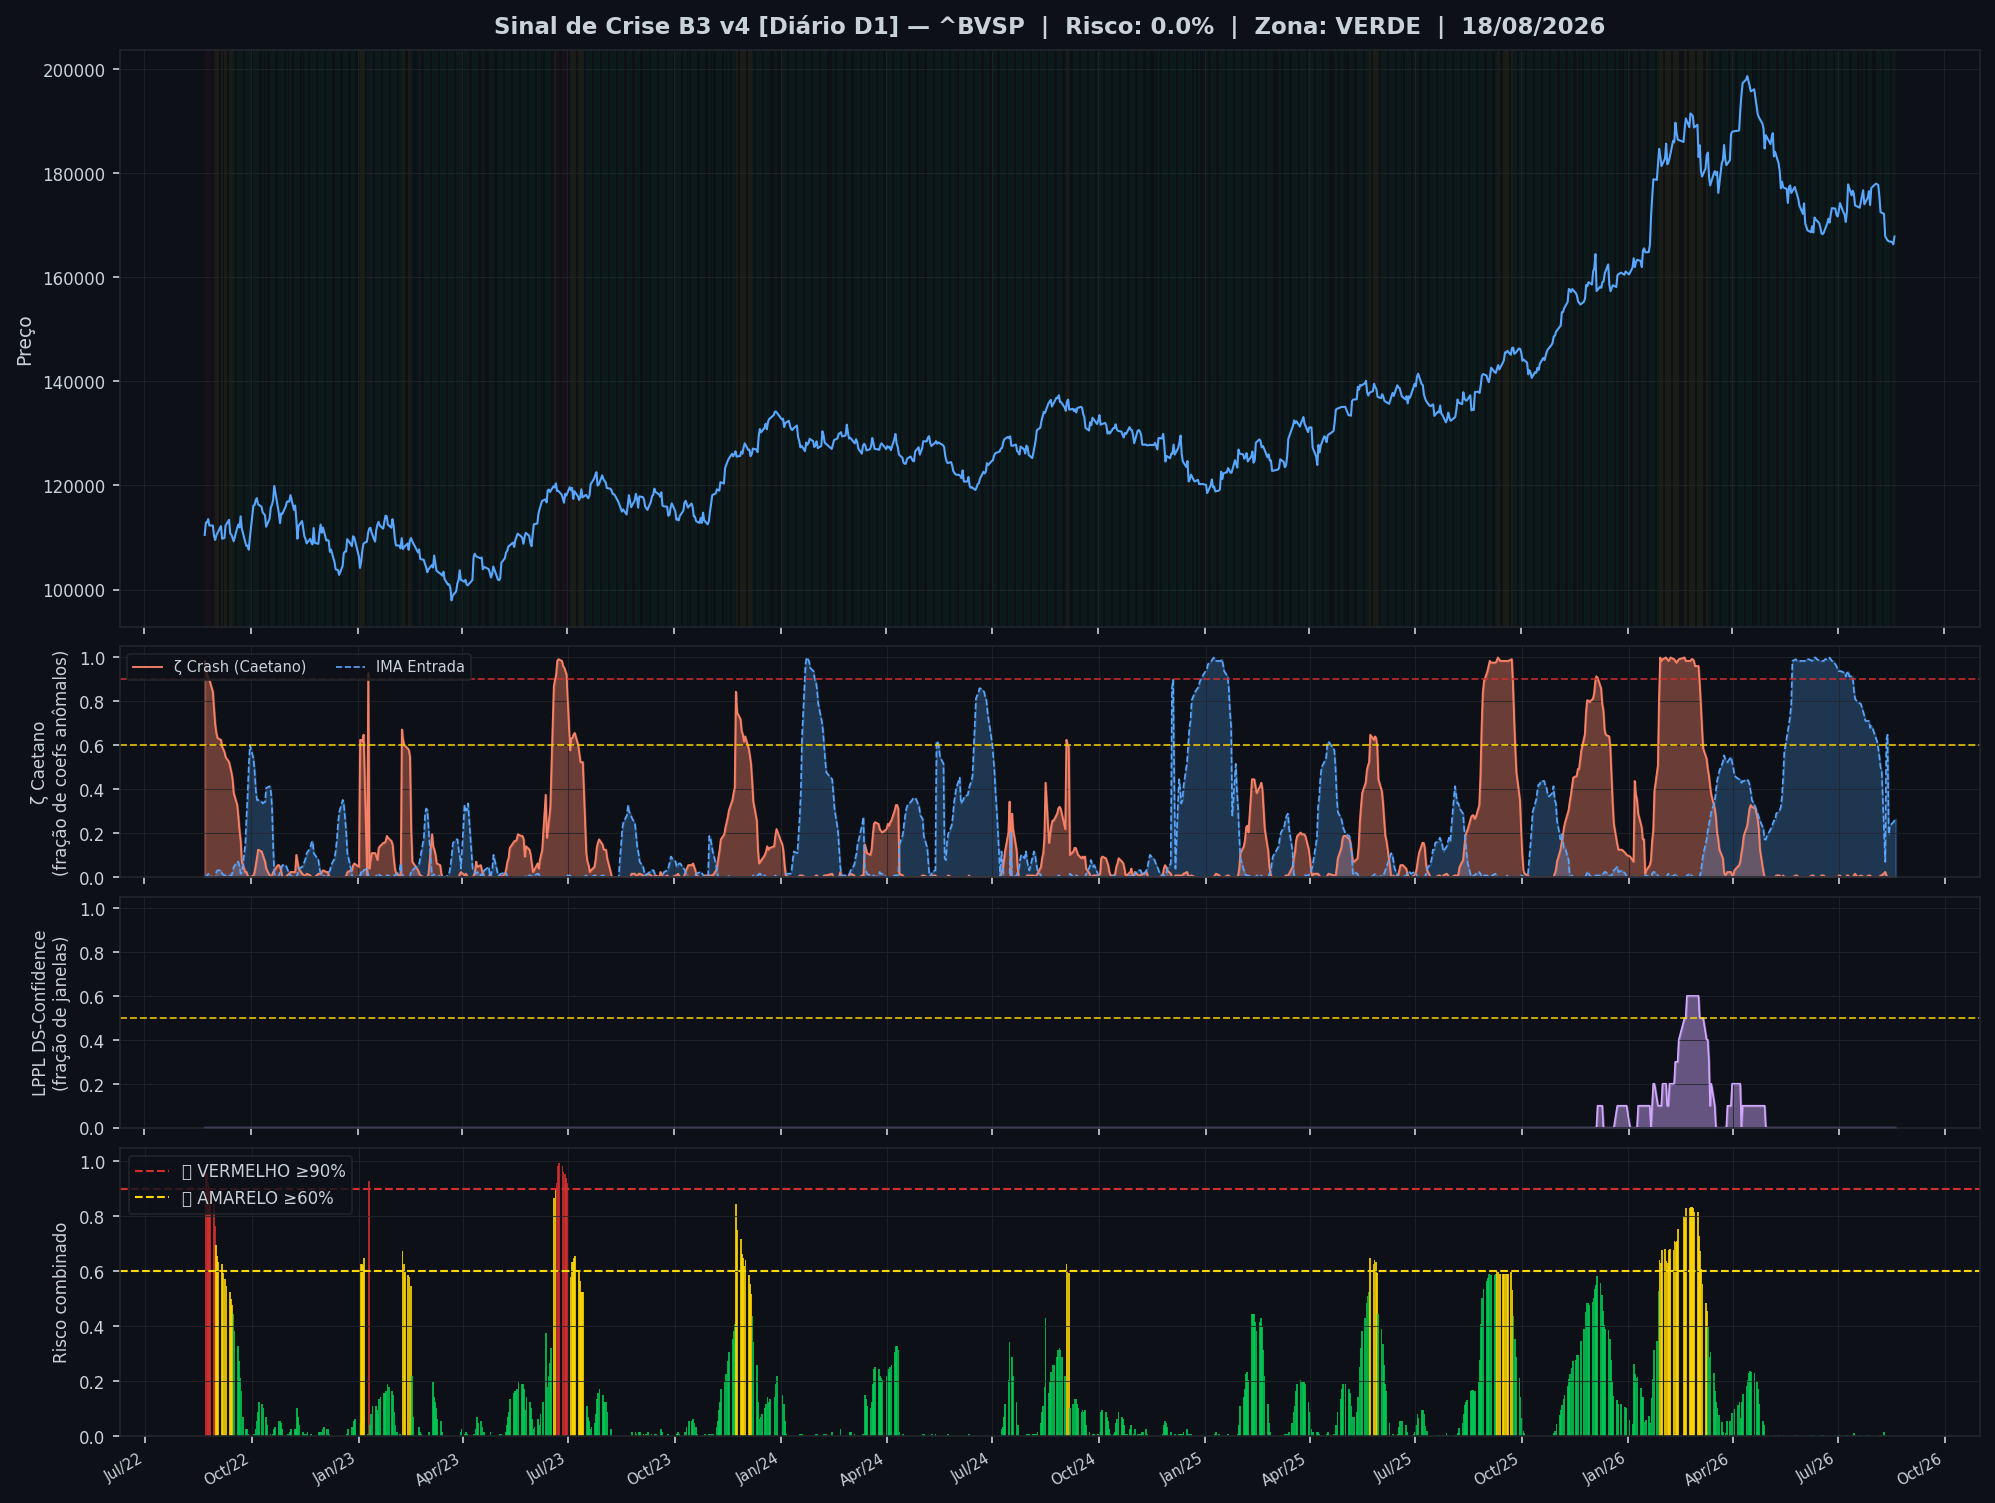
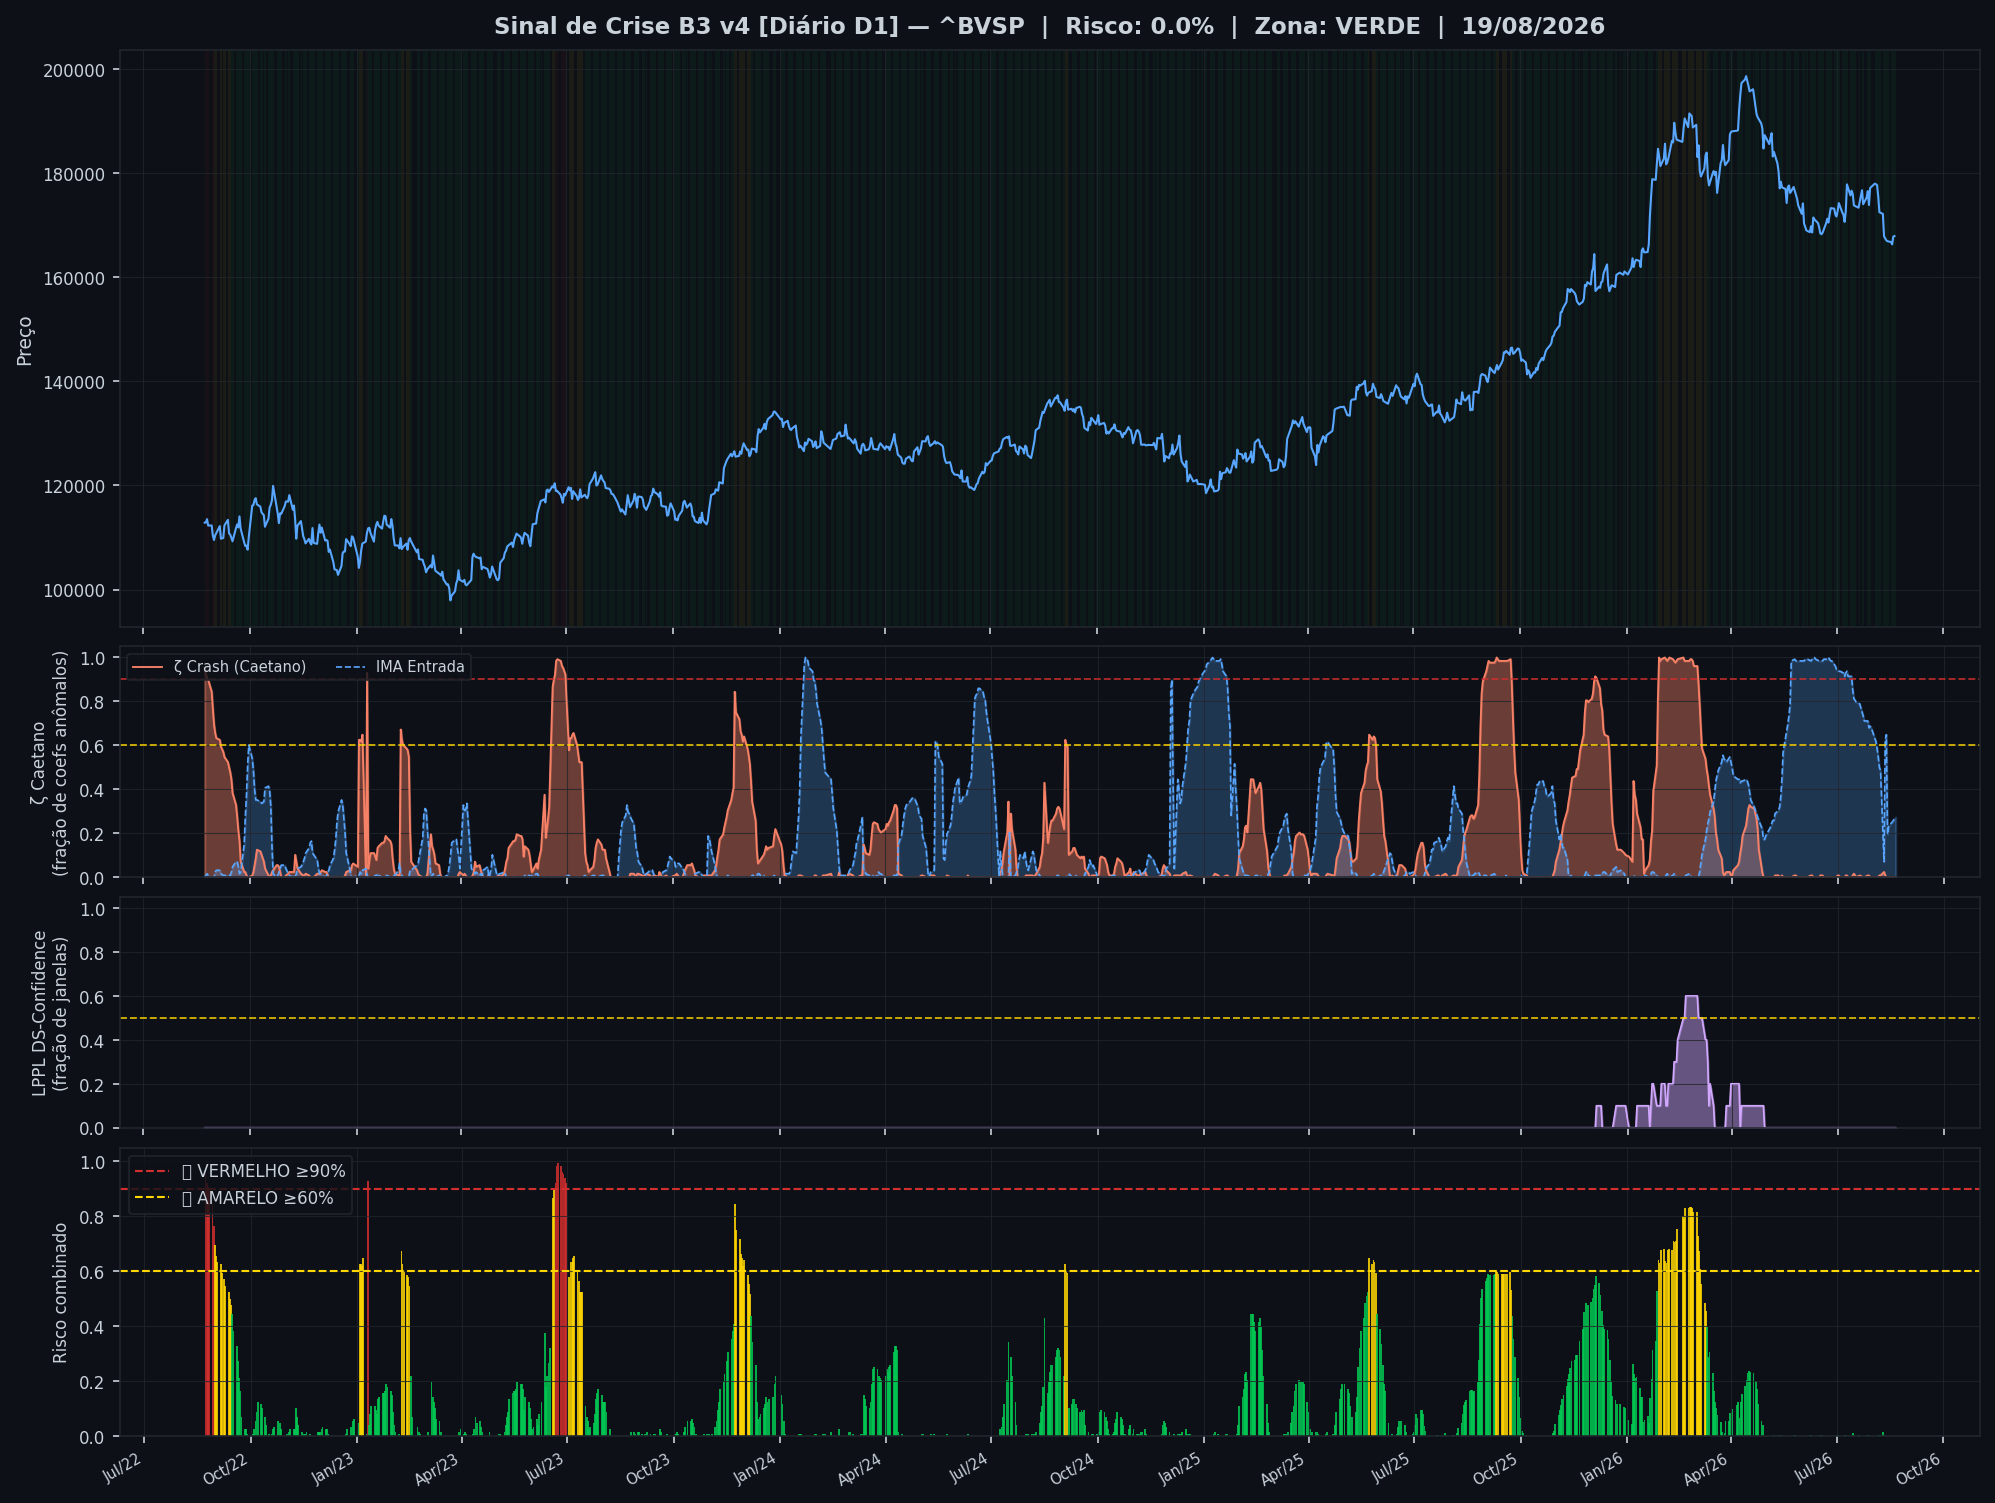
🤖 Auto: Sinal 20/08/2026 19:00

diff --git a/content/diario/2026-08-19.md b/content/diario/2026-08-19.md
@@ -1,0 +1,104 @@
+---
+title: "🟢 Diário 19/08/2026 — VERDE"
+date: 2026-08-20
+tags: [diario]
+---
+
+> [!success] 🟢 **VERDE** — Risco 0% · ＝ +0 p.p. vs leitura anterior
+> `░░░░░░░░░░░░░░░░░░░░`
+> Mercado sem sinais relevantes de estresse.
+
+
+| Indicador | Valor |
+|---|---|
+| 🔴 ζ Crash — severidade da queda em curso | **0%** |
+| 🔵 ζ Entrada — estrutura de fundo | 27% |
+| 🫧 LPPL DS-Confidence | 0% |
+| 📊 Ibovespa | 167.927 pts |
+
+![Gráfico do sinal](../graficos/sinal_diario.png)
+
+## Últimos 30 pregões
+
+| Data | Zona | Risco | IMA Crash | Entrada | LPPL |
+|---|---|---|---|---|---|
+| 2026-08-19 21:00 | 🟢 VERDE | **0%** | 0% | 27% | 0% |
+| 2026-08-18 21:00 | 🟢 VERDE | **0%** | 0% | 27% | 0% |
+| 2026-08-17 21:00 | 🟢 VERDE | **0%** | 0% | 26% | 0% |
+| 2026-08-16 21:00 | 🟢 VERDE | **0%** | 0% | 25% | 0% |
+| 2026-08-13 21:00 | 🟢 VERDE | **0%** | 0% | 23% | 0% |
+| 2026-08-12 21:00 | 🟢 VERDE | **0%** | 0% | 20% | 0% |
+| 2026-08-11 21:00 | 🟢 VERDE | **0%** | 0% | 65% | 0% |
+| 2026-08-10 21:00 | 🟢 VERDE | **0%** | 1% | 62% | 0% |
+| 2026-08-09 21:00 | 🟢 VERDE | **1%** | 2% | 7% | 0% |
+| 2026-08-06 21:00 | 🟢 VERDE | **0%** | 1% | 48% | 0% |
+| 2026-08-05 21:00 | 🟢 VERDE | **0%** | 1% | 50% | 0% |
+| 2026-08-04 21:00 | 🟢 VERDE | **0%** | 0% | 55% | 0% |
+| 2026-08-03 21:00 | 🟢 VERDE | **0%** | 0% | 59% | 0% |
+| 2026-08-02 21:00 | 🟢 VERDE | **0%** | 0% | 62% | 0% |
+| 2026-07-29 21:00 | 🟢 VERDE | **0%** | 0% | 68% | 0% |
+| 2026-07-28 21:00 | 🟢 VERDE | **0%** | 0% | 69% | 0% |
+| 2026-07-27 21:00 | 🟢 VERDE | **0%** | 1% | 68% | 0% |
+| 2026-07-26 21:00 | 🟢 VERDE | **0%** | 1% | 71% | 0% |
+| 2026-07-23 21:00 | 🟢 VERDE | **0%** | 0% | 71% | 0% |
+| 2026-07-22 21:00 | 🟢 VERDE | **0%** | 0% | 73% | 0% |
+| 2026-07-19 21:00 | 🟢 VERDE | **0%** | 1% | 79% | 0% |
+| 2026-07-16 21:00 | 🟢 VERDE | **0%** | 0% | 80% | 0% |
+| 2026-07-15 21:00 | 🟢 VERDE | **0%** | 1% | 80% | 0% |
+| 2026-07-14 21:00 | 🟢 VERDE | **1%** | 2% | 81% | 0% |
+| 2026-07-13 21:00 | 🟢 VERDE | **0%** | 1% | 85% | 0% |
+| 2026-07-12 21:00 | 🟢 VERDE | **0%** | 0% | 91% | 0% |
+| 2026-07-09 21:00 | 🟢 VERDE | **0%** | 0% | 91% | 0% |
+| 2026-07-08 21:00 | 🟢 VERDE | **0%** | 1% | 94% | 0% |
+| 2026-07-07 21:00 | 🟢 VERDE | **0%** | 1% | 93% | 0% |
+| 2026-07-06 21:00 | 🟢 VERDE | **0%** | 0% | 91% | 0% |
+
+## Monitor Multi-Ativo
+
+**0% dos ativos em tensão** (0🔴 0🟡) — quanto mais ativos disparam juntos, mais confiável o sinal.
+
+| Zona | Ativo | Setor | IMA Crash | IMA Entrada |
+|---|---|---|---|---|
+| 🟢 | **VALE** | Mineração | 25.8% | 0.0% |
+| 🟢 | **ITAUUNIBANCO** | Financeiro | 25.8% | 0.0% |
+| 🟢 | **PETROBRAS** | Petróleo | 25.8% | 0.0% |
+| 🟢 | **AXIA ENERGIA** | Energia | 25.8% | 0.0% |
+| 🟢 | **PETROBRAS** | Petróleo | 25.8% | 0.0% |
+| 🟢 | **BRADESCO** | Financeiro | 25.8% | 0.0% |
+| 🟢 | **ITAUSA** | Financeiro | 25.8% | 0.0% |
+| 🟢 | **WEG** | Industrial | 25.8% | 0.0% |
+| 🟢 | **B3** | Financeiro | 25.8% | 0.0% |
+| 🟢 | **EMBRAER** | Outros | 25.8% | 0.0% |
+| 🟢 | **SABESP** | Saneamento | 25.8% | 0.0% |
+| 🟢 | **AMBEV S/A** | Consumo | 25.8% | 0.0% |
+| 🟢 | **BTGP BANCO** | Financeiro | 25.8% | 0.0% |
+| 🟢 | **BRASIL** | Financeiro | 25.8% | 0.0% |
+| 🟢 | **ENEVA** | Energia | 25.8% | 0.0% |
+| 🟢 | **PRIO** | Petróleo | 25.8% | 0.0% |
+| 🟢 | **EQUATORIAL** | Energia | 25.8% | 0.0% |
+| 🟢 | **VIBRA** | Energia | 25.8% | 0.0% |
+| 🟢 | **COPEL** | Energia | 25.8% | 0.0% |
+| 🟢 | **REDE D OR** | Saúde | 25.8% | 0.0% |
+| 🟢 | **ULTRAPAR** | Outros | 25.8% | 0.0% |
+| 🟢 | **LOCALIZA** | Aluguel | 25.8% | 0.0% |
+| 🟢 | **GERDAU** | Siderurgia | 25.8% | 0.0% |
+| 🟢 | **SUZANO S.A.** | Papel/Celulose | 25.8% | 0.0% |
+| 🟢 | **RAIADROGASIL** | Outros | 25.8% | 0.0% |
+| 🟢 | **USD/BRL** | Câmbio | 25.0% | 0.0% |
+
+![Monitor multi-ativo](../graficos/multi_diario.png)
+
+*Página atualizada em 20/08/2026 19:00 BRT (leitura da barra de 2026-08-19 BRT).*
+
+> [!info]- Como interpretar (clique para expandir)
+> - **ζ Crash**: fração dos coeficientes wavelet acima do corte (Caetano & Yoneyama 2009). Escala absoluta: ζ=0,90 = 90% dos coeficientes anômalos — historicamente, quedas com ζ≥0,90 foram mais fundas e mais longas. **Mede a severidade do movimento em curso, não prevê o início da queda.**
+> - **ζ Entrada**: coeficientes negativos além do corte — estrutura de fundo, possível região de compra.
+> - **LPPL DS-Confidence**: fração de janelas (60–504 pregões) em que o modelo de bolha de Sornette produz um ajuste válido. 30% já é relevante; acima de 50% é forte evidência de estrutura de bolha.
+> - **Zonas com histerese**: o sinal só muda de zona ao cruzar o limiar de entrada, e só volta ao cruzar o de saída — evita flip-flop diário.
+
+
+---
+*Sinal de Crise B3 v4 · IMA Wavelet ([Caetano & Yoneyama, Physica-A 2007](https://doi.org/10.1016/j.physa.2007.03.054)) + LPPL DS-Confidence (Sornette, ETH-Zurich) · [Metodologia](metodologia) · [Histórico](historico)*
+
+> [!quote]- Aviso
+> Estudo acadêmico. Não constitui recomendação de investimento.

diff --git a/content/index.md b/content/index.md
@@ -8,7 +8,7 @@ tags: [home]
 
 Monitoramento diário e intraday do Ibovespa — **IMA Wavelet** (Prof. Marco Antonio Leonel Caetano, ITA/INSPER) + **LPPL DS-Confidence** (Prof. Didier Sornette, ETH-Zurich).
 
-*Última atualização: 20/08/2026 17:30 BRT · ^BVSP · Intraday 15min · v4*
+*Última atualização: 20/08/2026 19:00 BRT · ^BVSP · Diário D1 · v4*
 
 > [!success] 🟢 **VERDE** — Risco 0% · ＝ +0 p.p. vs leitura anterior
 > `░░░░░░░░░░░░░░░░░░░░`
@@ -18,9 +18,9 @@ Monitoramento diário e intraday do Ibovespa — **IMA Wavelet** (Prof. Marco An
 | Indicador | Valor |
 |---|---|
 | 🔴 ζ Crash — severidade da queda em curso | **0%** |
-| 🔵 ζ Entrada — estrutura de fundo | 22% |
+| 🔵 ζ Entrada — estrutura de fundo | 27% |
 | 🫧 LPPL DS-Confidence | 0% |
-| 📊 Ibovespa | 167.889 pts |
+| 📊 Ibovespa | 167.927 pts |
 
 **Multi-ativo:** 0% em tensão (0🔴 0🟡 de 26 ativos)
 
@@ -32,8 +32,13 @@ Monitoramento diário e intraday do Ibovespa — **IMA Wavelet** (Prof. Marco An
 
 | Data | Zona | Risco | IMA | LPPL |
 |---|---|---|---|---|
-| [20 Aug 2026](diario/2026-08-20) | 🟢 VERDE | **0%** | 0% | 0% |
-| [19 Aug 2026](diario/2026-08-19) | 🟢 VERDE | **2%** | 2% | 0% |
+| [19 Aug 2026](diario/2026-08-19) | 🟢 VERDE | **0%** | 0% | 0% |
+| [18 Aug 2026](diario/2026-08-18) | 🟢 VERDE | **0%** | 0% | 0% |
+| [17 Aug 2026](diario/2026-08-17) | 🟢 VERDE | **0%** | 0% | 0% |
+| [16 Aug 2026](diario/2026-08-16) | 🟢 VERDE | **0%** | 0% | 0% |
+| [13 Aug 2026](diario/2026-08-13) | 🟢 VERDE | **0%** | 0% | 0% |
+| [12 Aug 2026](diario/2026-08-12) | 🟢 VERDE | **0%** | 0% | 0% |
+| [11 Aug 2026](diario/2026-08-11) | 🟢 VERDE | **0%** | 0% | 0% |
 
 ## Navegação
 

diff --git a/content/historico.md b/content/historico.md
@@ -7,6 +7,7 @@ tags: [historico]
 
 | Data | Modo | Zona | Risco | IMA | LPPL |
 |---|---|---|---|---|---|
+| 2026-08-19 | diario | 🟢 VERDE | 0% | 0% | 0% |
 | 2026-08-20 16:45 | intraday | 🟢 VERDE | 0% | 0% | 0% |
 | 2026-08-20 16:30 | intraday | 🟢 VERDE | 0% | 0% | 0% |
 | 2026-08-20 16:15 | intraday | 🟢 VERDE | 0% | 0% | 0% |
